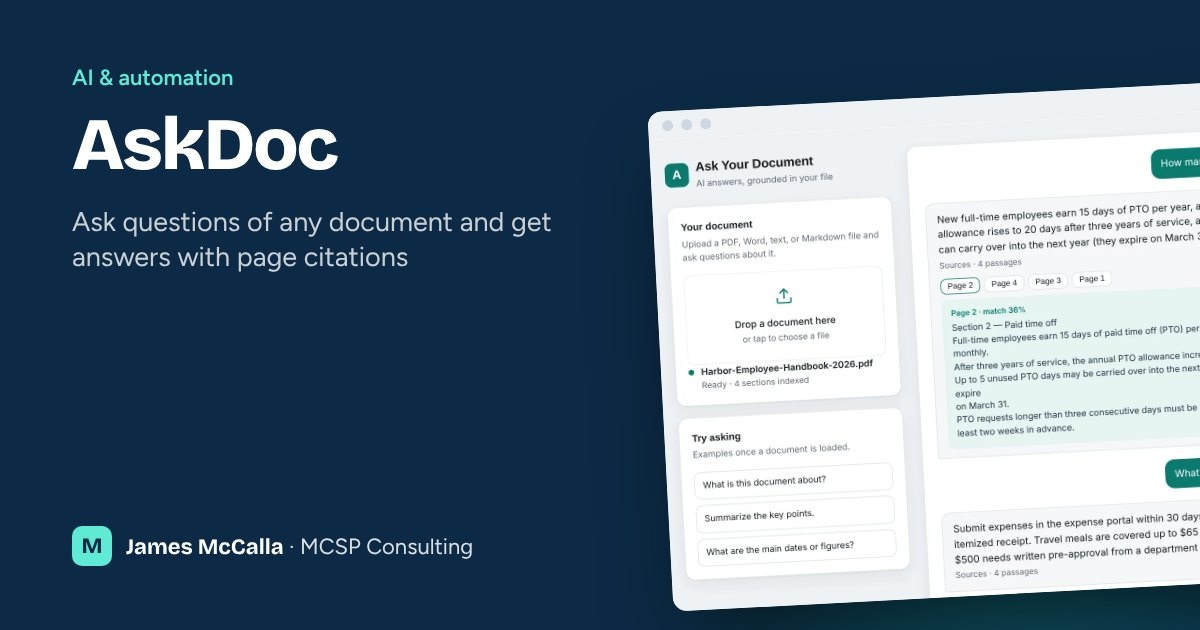
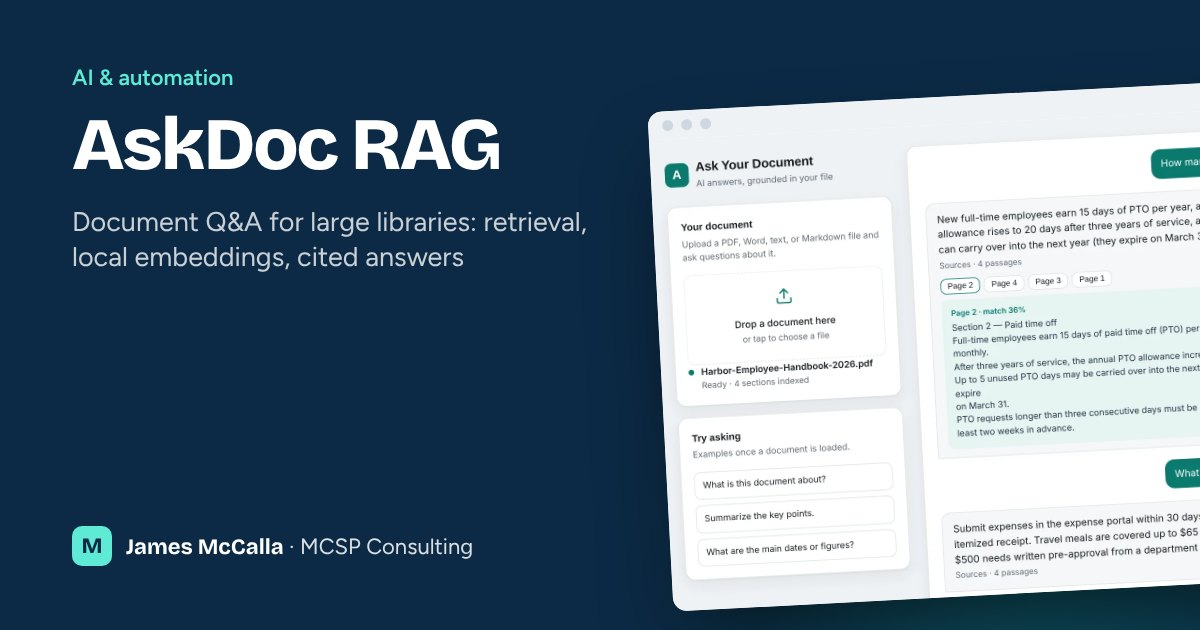
Add AskDoc Lite project; AskDoc becomes AskDoc RAG (big brother)
Seeder entry, feature list, screenshots and preview card for AskDoc Lite, with its
live link off until the demo is deployed. A guarded migration renames AskDoc only
where the admin hasn't changed those fields.

Claude-Session: https://claude.ai/code/session_01Ncja3GGxG4KmZwuFnqfGad

Changed region(s): [[0.0617, 0.3317, 0.4933, 0.4524], [0.2775, 0.181, 0.4317, 0.2714]]

diff --git a/database/seeders/PortfolioSeeder.php b/database/seeders/PortfolioSeeder.php
@@ -23,7 +23,7 @@ class PortfolioSeeder extends Seeder
         'frontend' => ['Vue 3', 'Inertia.js', 'Tailwind CSS', 'JavaScript', 'TypeScript', 'Vite', 'Alpine.js', 'Blade', 'HTML & CSS', 'Progressive Web Apps', 'Leaflet', 'Capacitor (iOS & Android)', 'vue-i18n'],
         'backend' => ['Laravel', 'PHP', 'Python', 'FastAPI', 'Node.js', 'REST APIs', 'Queues & scheduled jobs', 'Supabase Edge Functions'],
         'data' => ['PostgreSQL', 'SQLite', 'MySQL', 'Supabase', 'Row-level security', 'S3 / MinIO storage', 'NumPy'],
-        'ai' => ['Claude API (Anthropic)', 'OpenAI API', 'Retrieval-augmented generation (RAG)', 'sentence-transformers embeddings', 'Gemini image generation', 'AI agents & tool use'],
+        'ai' => ['Claude API (Anthropic)', 'OpenAI API', 'Retrieval-augmented generation (RAG)', 'sentence-transformers embeddings', 'Gemini image generation', 'AI agents & tool use', 'Claude citations & prompt caching'],
         'infra' => ['Docker', 'Coolify', 'Hetzner VPS', 'Cloudflare', 'Cloudflare Tunnel & Zero Trust', 'GitHub Actions', 'GitHub Container Registry', 'Vercel', 'Nginx', 'Linux server admin'],
         'integration' => ['Stripe', 'Stripe Connect', 'Resend email', 'Mapbox', 'Google Places API', 'WhatsApp Cloud API', 'Daily.co video', 'Firebase Cloud Messaging', 'Web Push', 'Meta Graph API', 'GitHub API', 'Cloudflare API', 'Open-Meteo', 'US Census geocoder', 'iCalendar (ICS) feeds', 'Zoho Mail API', 'PDF generation (dompdf)'],
         'testing' => ['PHPUnit', 'Playwright', 'Vitest', 'Larastan / PHPStan', 'Laravel Pint', 'ESLint & Prettier', 'TOTP two-factor auth'],
@@ -198,8 +198,8 @@ class PortfolioSeeder extends Seeder
             ],
             [
                 'slug' => 'askdoc',
-                'title' => 'AskDoc',
-                'tagline' => 'Ask questions of any document and get answers with page citations',
+                'title' => 'AskDoc RAG',
+                'tagline' => 'Document Q&A for large libraries: retrieval, local embeddings, cited answers',
                 'category' => 'ai',
                 'status' => 'demo',
                 'client_label' => 'Demo for AI-integration clients',
@@ -207,7 +207,7 @@ class PortfolioSeeder extends Seeder
                 'year' => 2026,
                 'is_featured' => true,
                 'summary' => 'Upload a PDF, Word, text or Markdown file and ask questions in plain language. Answers come only from that document and show the exact passages and page numbers they came from, so every answer can be checked.',
-                'body' => "AskDoc is a retrieval-augmented generation (RAG) app built without a framework like LangChain, so every step is visible and tunable. The document is split into overlapping passages and embedded on the server with a local model; a question pulls back the closest passages, and only those are sent to the language model with instructions to answer from them or say it couldn't find the answer.\n\nThe live demo is paused to save server resources. These screenshots use a sample employee handbook.",
+                'body' => "AskDoc is a retrieval-augmented generation (RAG) app built without a framework like LangChain, so every step is visible and tunable. The document is split into overlapping passages and embedded on the server with a local model; a question pulls back the closest passages, and only those are sent to the language model with instructions to answer from them or say it couldn't find the answer.\n\nThis is the big brother of AskDoc Lite: built for large document libraries and heavy use, where sending whole files to the AI on every question would be slow and costly. It runs on its own server. These screenshots use a sample employee handbook.",
                 'highlights' => [
                     'Accepts PDF, Word (including tables), text and Markdown',
                     'Answers grounded only in the uploaded document, with a clear “not found” instead of guessing',
@@ -222,6 +222,36 @@ class PortfolioSeeder extends Seeder
                     'Docker image built and tested in GitHub Actions, published to GHCR and deployed by tag with one-step rollback',
                 ],
                 'tech' => ['Python', 'FastAPI', 'NumPy', 'Claude API (Anthropic)', 'OpenAI API', 'Retrieval-augmented generation (RAG)', 'sentence-transformers embeddings', 'HTML & CSS', 'JavaScript', 'Docker', 'GitHub Actions', 'GitHub Container Registry', 'Coolify', 'Cloudflare'],
+            ],
+            [
+                'slug' => 'askdoc-lite',
+                'title' => 'AskDoc Lite',
+                'tagline' => 'Ask questions of a document and get answers that quote the exact passage',
+                'category' => 'ai',
+                'status' => 'demo',
+                'client_label' => 'Live demo for AI-integration clients',
+                'role' => 'Design, AI integration, API, deployment',
+                'year' => 2026,
+                'is_featured' => true,
+                'live_url' => 'https://aidemo.mcspconsulting.com',
+                'show_live_url' => false,
+                'summary' => 'Upload a handbook, policy, contract or manual and ask questions in plain language. AskDoc Lite reads the whole document for every question and answers only from it, quoting the exact passage and page each part of the answer came from.',
+                'body' => "AskDoc Lite is the little brother of AskDoc RAG. Instead of searching for a few matching passages, it gives the AI the whole document every time, so it handles summaries and questions that pull from several sections as well as single facts. Claude's built-in citations tie each statement in the answer to the sentence it came from, and prompt caching means follow-up questions about the same document cost a fraction of the first.\n\nWith no search index and no embedding model, it runs on a very small server. It suits documents up to about 200 pages; larger libraries are what AskDoc RAG is for. These screenshots use a sample employee handbook.",
+                'highlights' => [
+                    'Reads the whole document for every question, so summaries and cross-section questions work',
+                    'Every answer quotes the exact sentence it relied on, with the page number',
+                    'Says plainly when the answer is not in the document instead of guessing',
+                    'Accepts PDF, Word, text and Markdown files',
+                    'Small, low-cost server: no search index or embedding model to host',
+                ],
+                'engineering' => [
+                    'The document is sent as one citable block per page; Claude returns citations that map straight to page numbers',
+                    'Prompt caching re-reads the same document at about a tenth of the normal input price',
+                    'Spending guards on the public demo: a daily cap, a per-visitor limit and size caps, all set by environment',
+                    'Shares the upload code, interface and tests with AskDoc RAG; tests run the real Anthropic SDK against a fake API server',
+                    'Slim Docker image built and tested in GitHub Actions, published to GHCR and pulled by the server',
+                ],
+                'tech' => ['Python', 'FastAPI', 'Claude API (Anthropic)', 'Claude citations & prompt caching', 'HTML & CSS', 'JavaScript', 'Docker', 'GitHub Actions', 'GitHub Container Registry', 'Coolify', 'Cloudflare'],
             ],
             [
                 'slug' => 'launchpad',

diff --git a/tests/Feature/AskDocEditionsTest.php b/tests/Feature/AskDocEditionsTest.php
@@ -1,0 +1,59 @@
+<?php
+
+namespace Tests\Feature;
+
+use App\Models\Project;
+use Database\Seeders\PortfolioSeeder;
+use Illuminate\Foundation\Testing\RefreshDatabase;
+use Tests\TestCase;
+
+class AskDocEditionsTest extends TestCase
+{
+    use RefreshDatabase;
+
+    private function runRenameMigration(): void
+    {
+        $migration = require database_path('migrations/2026_11_04_000400_rename_askdoc_to_askdoc_rag.php');
+        $migration->up();
+    }
+
+    public function test_seeder_adds_askdoc_lite_with_features_screenshots_and_hidden_live_link(): void
+    {
+        $this->seed(PortfolioSeeder::class);
+
+        $lite = Project::where('slug', 'askdoc-lite')->firstOrFail();
+        $this->assertTrue($lite->is_published);
+        $this->assertFalse($lite->show_live_url);
+        $this->assertGreaterThan(0, $lite->features()->count());
+        $this->assertSame(3, $lite->screenshots()->count());
+        $this->assertTrue($lite->technologies()->where('name', 'Claude citations & prompt caching')->exists());
+
+        $this->get('/work/askdoc-lite')->assertOk()->assertSee('AskDoc Lite')
+            ->assertDontSee('aidemo.mcspconsulting.com');
+    }
+
+    public function test_rename_migration_updates_untouched_askdoc_fields_only(): void
+    {
+        $original = [
+            'slug' => 'askdoc', 'category' => 'ai', 'status' => 'demo',
+            'tagline' => 'Ask questions of any document and get answers with page citations',
+            'body' => "Intro.\n\nThe live demo is paused to save server resources. These screenshots use a sample employee handbook.",
+        ];
+
+        $untouched = Project::create($original + ['title' => 'AskDoc']);
+        $this->runRenameMigration();
+        $untouched->refresh();
+        $this->assertSame('AskDoc RAG', $untouched->title);
+        $this->assertStringContainsString('big brother of AskDoc Lite', $untouched->body);
+        $this->assertStringStartsWith('Intro.', $untouched->body);
+        $this->assertStringContainsString('large libraries', $untouched->tagline);
+
+        $untouched->delete();
+        $edited = Project::create(['title' => 'My AskDoc', 'tagline' => 'Mine', 'body' => 'My words.'] + $original);
+        $this->runRenameMigration();
+        $edited->refresh();
+        $this->assertSame('My AskDoc', $edited->title);
+        $this->assertSame('Mine', $edited->tagline);
+        $this->assertSame('My words.', $edited->body);
+    }
+}

diff --git a/database/migrations/2026_11_04_000400_rename_askdoc_to_askdoc_rag.php b/database/migrations/2026_11_04_000400_rename_askdoc_to_askdoc_rag.php
@@ -1,0 +1,43 @@
+<?php
+
+use Illuminate\Database\Migrations\Migration;
+use Illuminate\Support\Facades\DB;
+
+/**
+ * AskDoc becomes "AskDoc RAG", the big brother of AskDoc Lite. Each field changes only if it
+ * still holds the original seeded text, so edits made in the admin are kept.
+ */
+return new class extends Migration
+{
+    private const OLD_SENTENCE = 'The live demo is paused to save server resources. These screenshots use a sample employee handbook.';
+
+    private const NEW_SENTENCE = 'This is the big brother of AskDoc Lite: built for large document libraries and heavy use, where sending whole files to the AI on every question would be slow and costly. It runs on its own server. These screenshots use a sample employee handbook.';
+
+    public function up(): void
+    {
+        $askdoc = DB::table('projects')->where('slug', 'askdoc')->first();
+        if (! $askdoc) {
+            return;
+        }
+
+        $changes = [];
+        if ($askdoc->title === 'AskDoc') {
+            $changes['title'] = 'AskDoc RAG';
+        }
+        if ($askdoc->tagline === 'Ask questions of any document and get answers with page citations') {
+            $changes['tagline'] = 'Document Q&A for large libraries: retrieval, local embeddings, cited answers';
+        }
+        if (is_string($askdoc->body) && str_contains($askdoc->body, self::OLD_SENTENCE)) {
+            $changes['body'] = str_replace(self::OLD_SENTENCE, self::NEW_SENTENCE, $askdoc->body);
+        }
+
+        if ($changes) {
+            DB::table('projects')->where('id', $askdoc->id)->update($changes + ['updated_at' => now()]);
+        }
+    }
+
+    public function down(): void
+    {
+        //
+    }
+};

diff --git a/CANON.md b/CANON.md
@@ -69,14 +69,14 @@ Inertia page path is `resources/js/Pages` (set in `config/inertia.php`; the pack
   password; rerun with the same email to reset it, a new email adds a second admin).
 
 ### Content loading
-- `PortfolioSeeder` creates the 12 projects, 68 technologies, profile defaults, bundled screenshots
+- `PortfolioSeeder` creates the 13 projects, 69 technologies, profile defaults, bundled screenshots
   (`public/images/projects/<slug>/shots.json`) and feature lists (`database/seeders/features/<slug>.json`).
 - Re-runnable and non-destructive: existing projects are never overwritten, features load only into
   projects that have none, headline numbers only when empty, and only new bundled screenshots are added.
 
 ## Current content (2026-11-04)
-- 12 projects; Launchpad hidden by choice (11 public). 84 screenshots, 865 features, 68 technologies.
-- Projects: PureOps, dermatology telehealth app, AskDoc, Launchpad (hidden), MCSP platform,
+- 13 projects; Launchpad hidden by choice (12 public). 87 screenshots, 892 features, 69 technologies.
+- Projects: PureOps, dermatology telehealth app, AskDoc RAG, AskDoc Lite, Launchpad (hidden), MCSP platform,
   small-business website platform, detailing booking site, dental clinic site, process-server site,
   PTA website, gym nutrition app, bank-statement bookkeeping tool.
 
@@ -98,6 +98,11 @@ websites; project client labels stay generic until a client agrees to be named.
   marketplace profile link instead (platform rules).
 - 2026-11-04 — Launchpad hidden so prospects don't read client sites as "made in five minutes";
   its Launchpad screenshot was also removed from the website platform project.
+- 2026-11-04 — AskDoc shown as two editions: **AskDoc Lite** (whole document + Claude citations, the
+  small-business offer, live demo at aidemo.mcspconsulting.com) and **AskDoc RAG** (its big brother for
+  large libraries). Lite's live link ships switched off until its deploy is smoke-tested. Hosting is
+  described as "its own server", never "your server": the default offer is a new server MCSP runs
+  and maintains, with the client's own server as an option.
 
 ## Known gotchas
 - Assets must be built locally and committed (`npm run build`); the server has no Vite.
@@ -127,3 +132,6 @@ websites; project client labels stay generic until a client agrees to be named.
   and each project, sitemap.xml, robots.txt, admin noindex, apple-touch-icon. 47 tests passing.
 - 2026-11-04 — Persistent volume `portfolio-uploads` added in Coolify at `storage/app/public`;
   a test file survived a redeploy into a new container.
+- 2026-11-04 — AskDoc Lite added (seeder entry, 27 features, 3 screenshots, preview card, new technology
+  "Claude citations & prompt caching"). Migration renames AskDoc to "AskDoc RAG" with big-brother
+  wording, only where the admin hasn't changed those fields. 49 tests passing.

diff --git a/ROADMAP.md b/ROADMAP.md
@@ -2,7 +2,9 @@
 
 Derived from CANON.md. What's left, newest decisions first.
 
-## Now (James, in the admin)
+## Now (James)
+- [ ] Run the seeder once after this deploy to add AskDoc Lite: `php artisan db:seed --class=PortfolioSeeder --force` (Coolify terminal; existing projects untouched)
+- [ ] After AskDoc Lite is live and smoke-tested (aidemo repo OPEN-10/11): Admin → AskDoc Lite → tick "Link it publicly"
 - [ ] Bank-statement tool: remove "currency conversion" from its summary/highlights (not switched on in the tool)
 - [ ] Gmail filter so `[Portfolio]` enquiries land in Primary, not Updates (optional)
 - [ ] Add Fiverr profile URL in Admin → Profile if/when the Fiverr profile is live
@@ -10,7 +12,7 @@ Derived from CANON.md. What's left, newest decisions first.
 
 ## Next
 - [ ] Ask clients who agree to be named; update client labels and turn on their live links
-- [ ] Bring AskDoc back online on its own server and link it as a live demo
+- [ ] Bring AskDoc RAG back online on its own server/subdomain and link it as a live demo
 - [ ] Refresh screenshots as the apps change (Admin → project → Screenshots)
 
 ## Backlog
@@ -29,6 +31,7 @@ Derived from CANON.md. What's left, newest decisions first.
 - [x] Launchpad hidden; broken-screenshot guard and cleanup
 - [x] Link previews (Open Graph cards for home and each project), sitemap.xml, robots.txt
 - [x] Persistent volume `portfolio-uploads` mounted at `storage/app/public`; survival across redeploy verified
+- [x] AskDoc Lite project added; AskDoc renamed AskDoc RAG (big brother), guarded migration
 
 ## Pending manual steps
-- None. Migrations run on deploy; the seeder and admin account steps are done.
+- Seeder run for AskDoc Lite (see Now). Migrations run on deploy.
